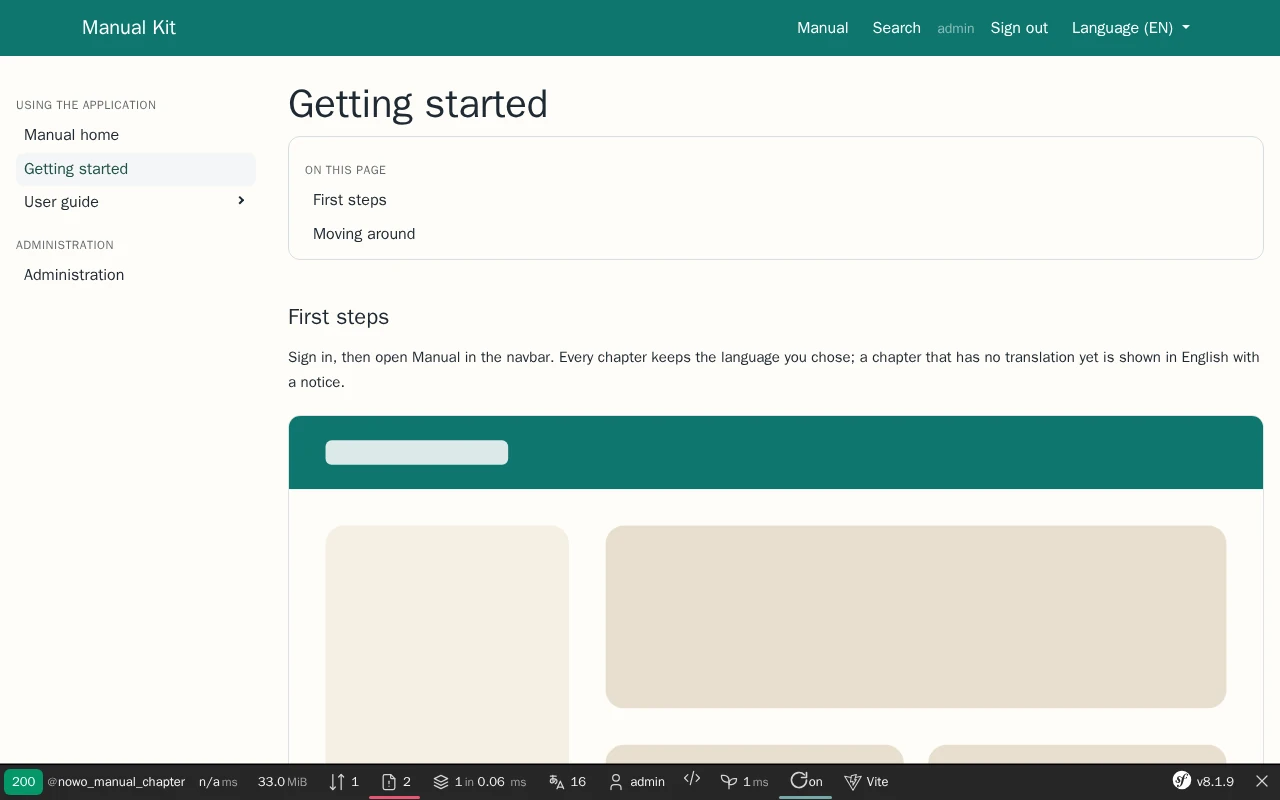
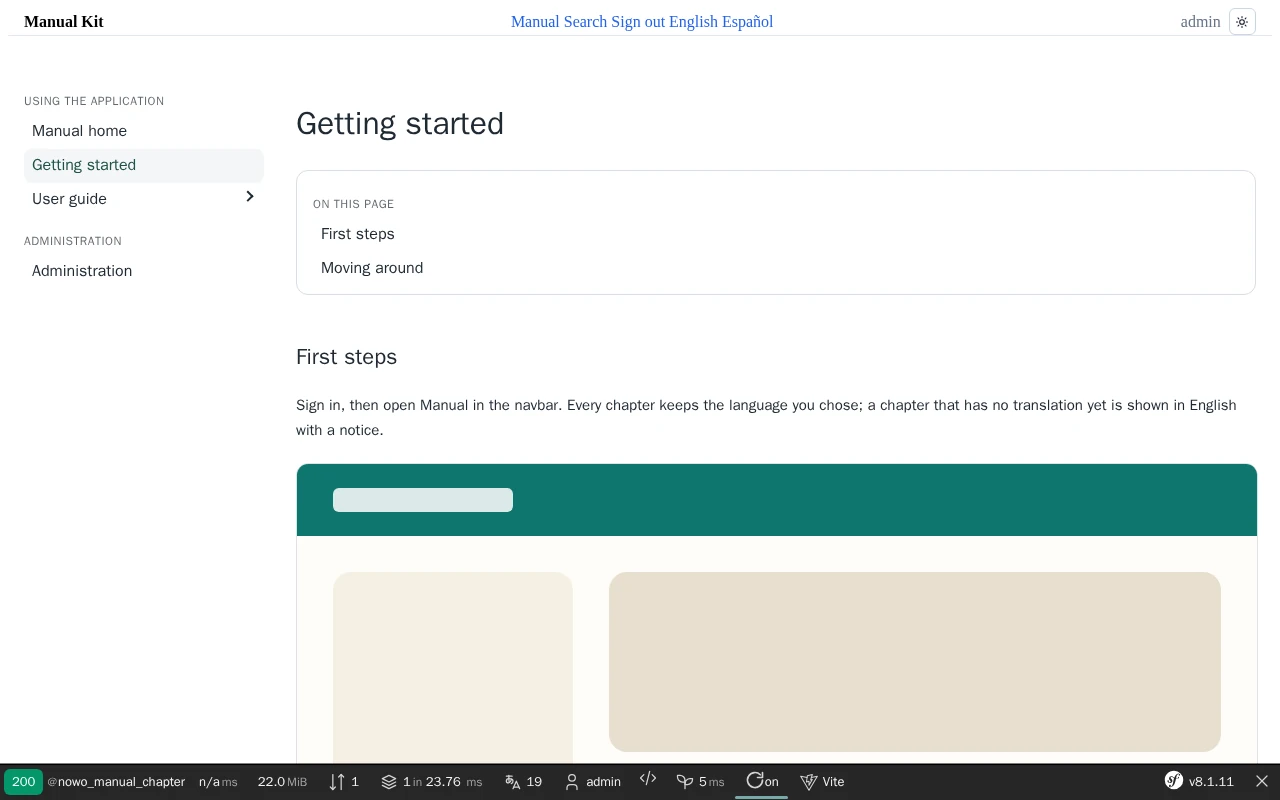
chore(docs): refresh demo screenshots on the UiKit base style (#33)

diff --git a/docs/CHANGELOG.md b/docs/CHANGELOG.md
@@ -43,6 +43,10 @@ The format is based on [Keep a Changelog](https://keepachangelog.com/en/1.1.0/),
 
 ## [Unreleased]
 
+### Changed
+
+- docs: demo screenshots regenerated on the UiKit base style
+
 ## [1.10.0] - 2026-11-13
 
 ### Added
